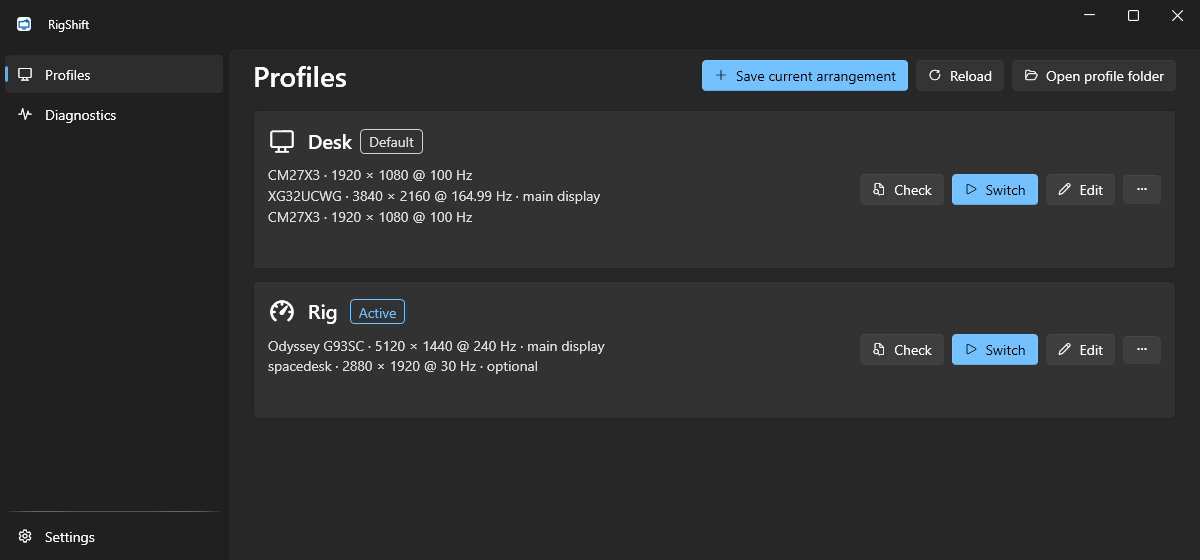
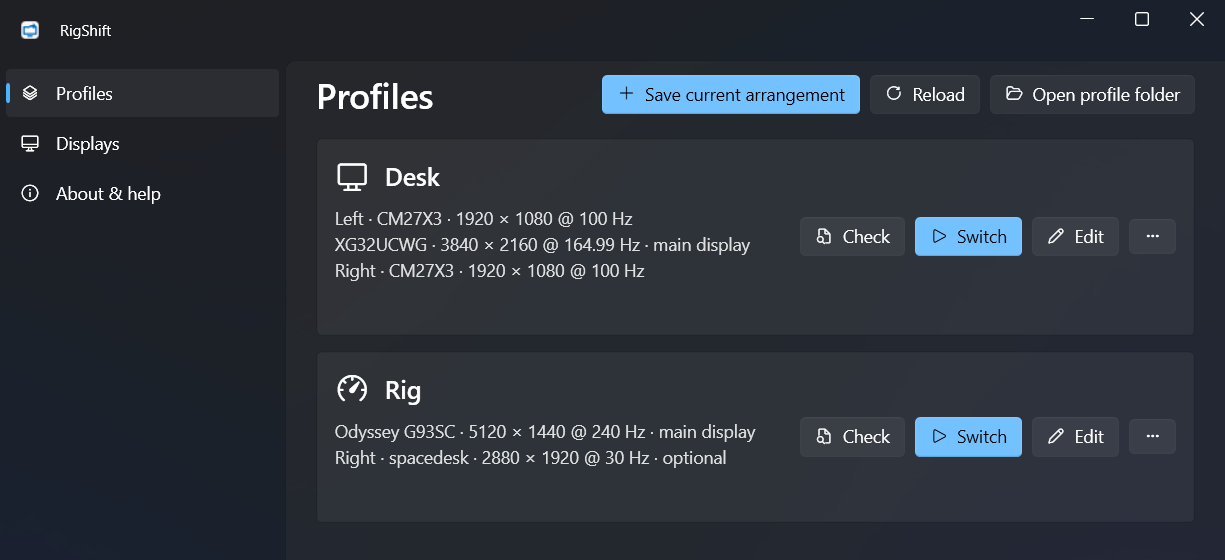
docs: new sidebar screenshots and README text for 1.3.0

diff --git a/README.md b/README.md
@@ -39,6 +39,7 @@ Beyond that, RigShift is designed to be boring in the good way:
   RigShift rolls back to the previous one.
 - **Audio included:** playback, recording and communications devices plus volume per profile.
 - **Apps per profile:** start SimHub or Crew Chief and close Discord once the switch is confirmed.
+- **Your names for monitors** ("Left · CM27X3") everywhere, and **Identify** shows which screen is which.
 - **Explains problems** ("this combination exceeds your GPU's display heads") instead of showing error 31.
 - **Keyboard shortcut per profile**, e.g. Ctrl+Alt+F1, works from anywhere while RigShift runs.
 - **Scriptable:** `RigShift.exe apply Rig` or a `rigshift://apply/Rig` link from a Stream Deck, button box, SimHub
@@ -63,8 +64,9 @@ RigShift is not code-signed yet, so Windows SmartScreen may say *"Windows protec
 **More info → Run anyway**. Signing is planned (see roadmap).
 
 **Updates** install themselves: RigShift checks GitHub at startup and once a day, downloads a new version in the
-background and installs it the next time it starts. **Settings** show the version and what is new, and let you
-check for updates, install one right away, or turn automatic installation off so RigShift only reports new versions.
+background and installs it the next time it starts. **About & help** shows the version and what is new and lets you
+check for updates or install one right away; in **Settings** you can turn automatic installation off so RigShift only
+reports new versions.
 
 Profiles, settings and logs are stored in `%AppData%\RigShift` and are kept when you uninstall.
 
@@ -141,8 +143,9 @@ RigShift focuses on the atomic switch, robustness on real hardware and sim-racin
 
 ## Contributing
 
-Issues and pull requests are welcome – see [CONTRIBUTING.md](CONTRIBUTING.md). Please attach the log from
-`%AppData%\RigShift\logs` to bug reports (it contains display device paths, nothing else personal).
+Issues and pull requests are welcome – see [CONTRIBUTING.md](CONTRIBUTING.md). For bug reports, use
+**About & help → Copy diagnostic info** and attach the log from `%AppData%\RigShift\logs` (both contain display device
+paths, nothing else personal).
 
 ## License
 
